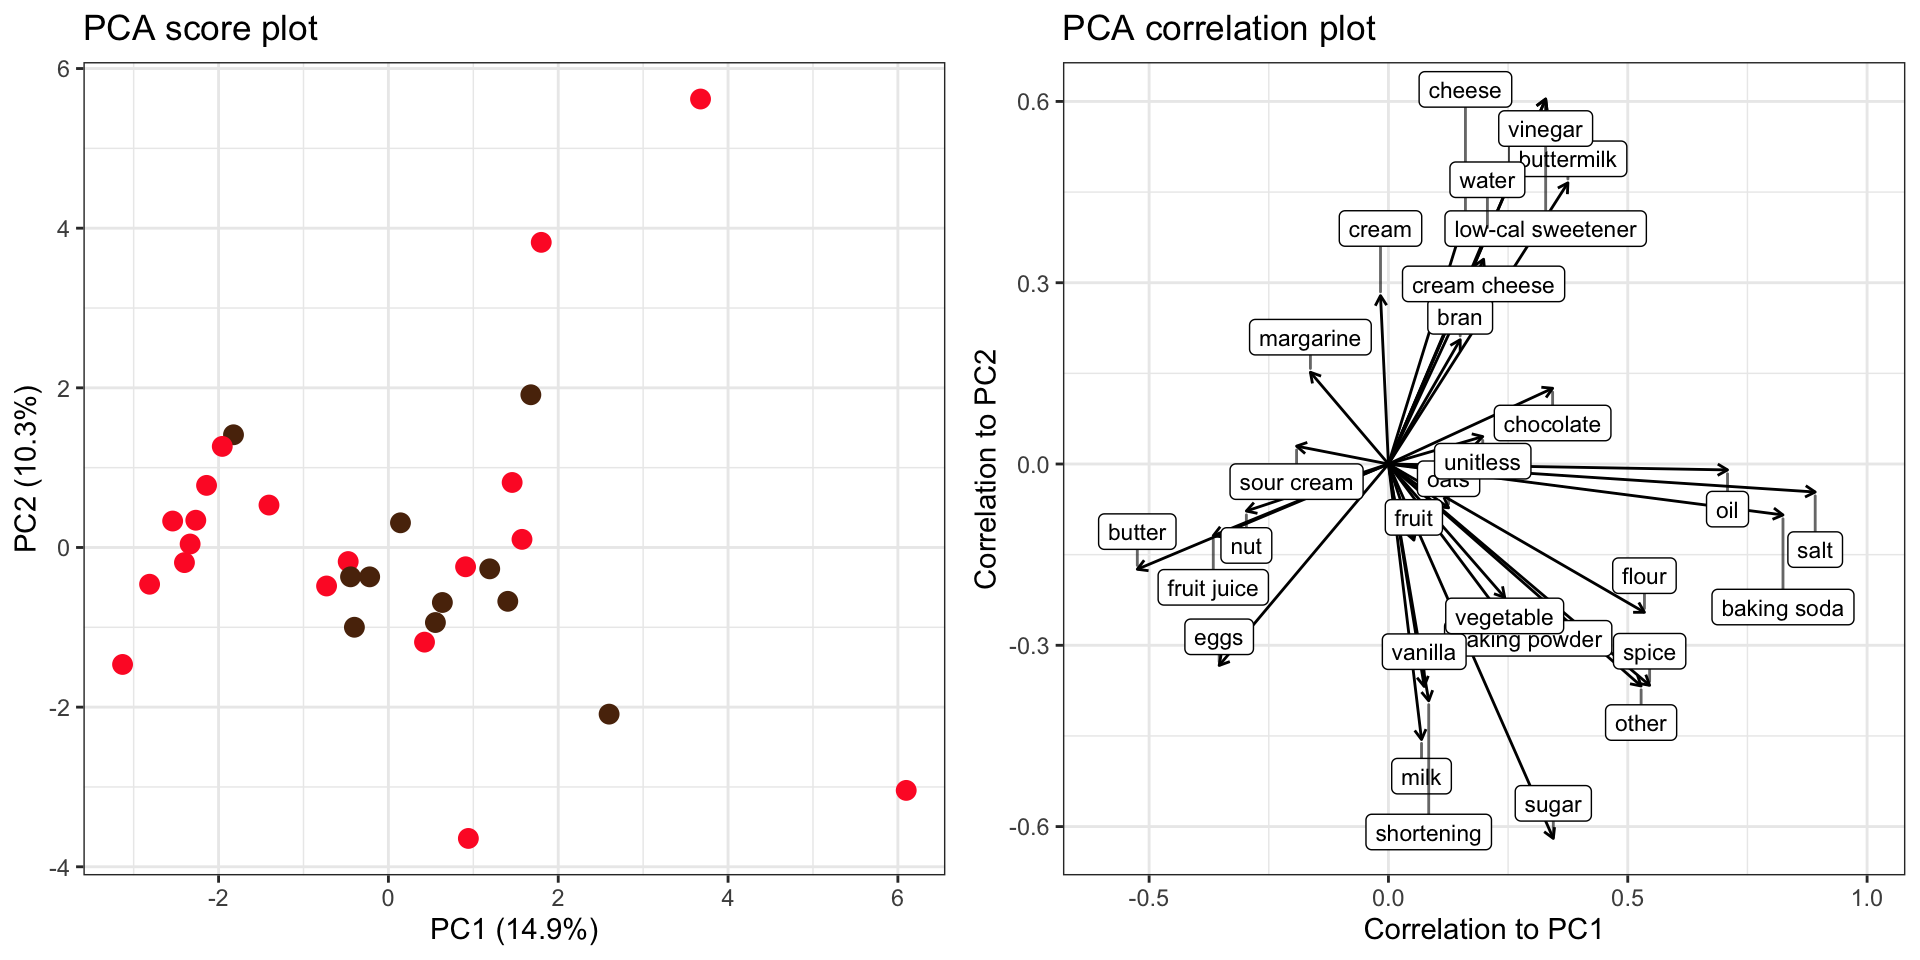
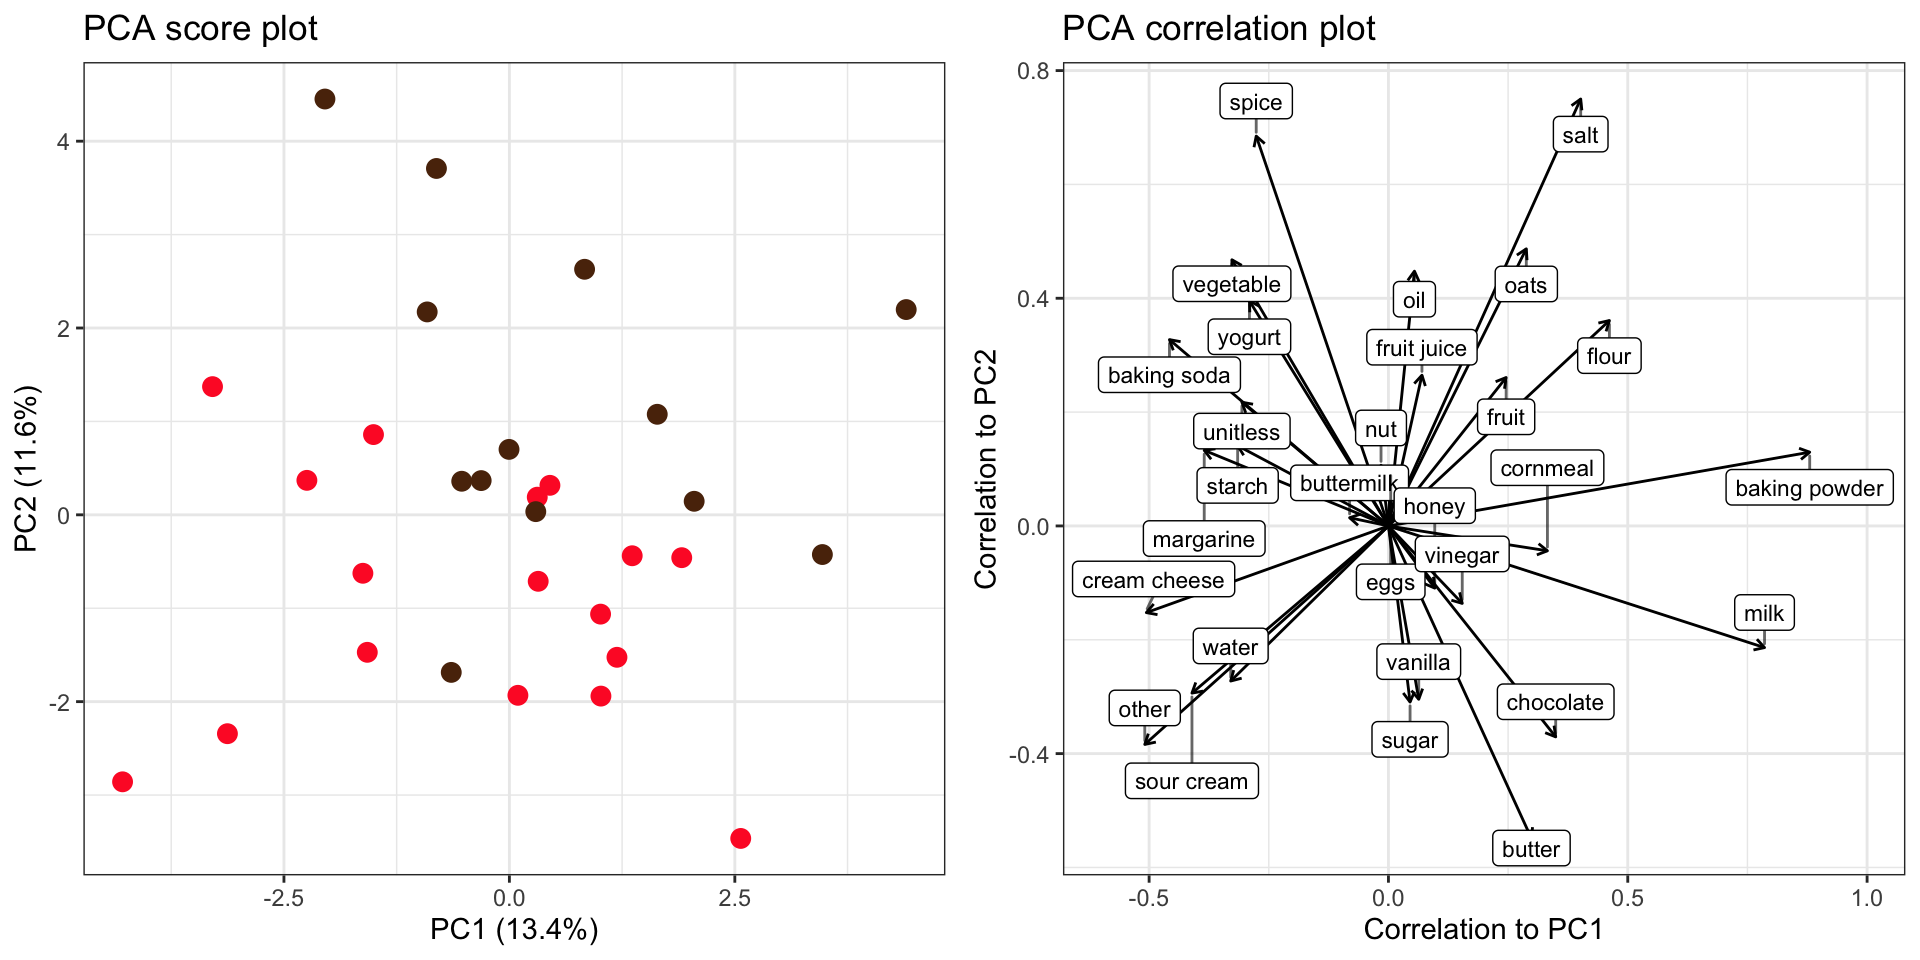
specified version for RNG

diff --git a/content/post/2019-03-21-cupcakes-vs-muffins-round-2.html b/content/post/2019-03-21-cupcakes-vs-muffins-round-2.html
@@ -65,18 +65,18 @@ nofrosting &lt;-
   mutate(type = fct_relabel(type, tools::toTitleCase))
 nofrosting</code></pre>
 <pre><code>## # A tibble: 30 x 42
-##    type  recipe_id agave `baking powder` `baking soda`  bran butter
-##    &lt;fct&gt; &lt;chr&gt;     &lt;dbl&gt;           &lt;dbl&gt;         &lt;dbl&gt; &lt;dbl&gt;  &lt;dbl&gt;
-##  1 Cupc… 25994         0        0             0            0 0.0417
-##  2 Muff… 214651        0        0.000868      0            0 0     
-##  3 Muff… 8458          0        0.00231       0            0 0.0104
-##  4 Cupc… 244984        0        0.000434      0.000217     0 0.0312
-##  5 Cupc… 8274          0        0             0            0 0.0667
-##  6 Cupc… 136471        0        0.00260       0.000868     0 0     
-##  7 Muff… 69664         0        0.00391       0            0 0.0312
-##  8 Cupc… 256113        0        0             0            0 0.0556
-##  9 Muff… 6714          0        0.00347       0.00174      0 0     
-## 10 Cupc… 76930         0        0             0            0 0.0156
+##    type  recipe_id agave `baking powder` `baking soda`  bran  butter
+##    &lt;fct&gt; &lt;chr&gt;     &lt;dbl&gt;           &lt;dbl&gt;         &lt;dbl&gt; &lt;dbl&gt;   &lt;dbl&gt;
+##  1 Cupc… 145206        0        0.00174       0.000868     0 0      
+##  2 Cupc… 240140        0        0.000868      0.000694     0 0.0167 
+##  3 Cupc… 161019        0        0.000868      0.00174      0 0      
+##  4 Muff… 16945         0        0             0            0 0.0741 
+##  5 Muff… 228562        0        0.00116       0.00231      0 0.00694
+##  6 Cupc… 215375        0        0.00130       0.000651     0 0      
+##  7 Cupc… 242474        0        0.00208       0            0 0      
+##  8 Cupc… 233538        0        0.00312       0.000521     0 0.05   
+##  9 Cupc… 155534        0        0.00231       0.000579     0 0      
+## 10 Muff… 6753          0        0.00694       0            0 0      
 ## # … with 20 more rows, and 35 more variables: buttermilk &lt;dbl&gt;,
 ## #   cheese &lt;dbl&gt;, chocolate &lt;dbl&gt;, cornmeal &lt;dbl&gt;, cream &lt;dbl&gt;, `cream
 ## #   cheese` &lt;dbl&gt;, eggs &lt;dbl&gt;, flour &lt;dbl&gt;, frosting &lt;dbl&gt;, fruit &lt;dbl&gt;,
@@ -99,11 +99,11 @@ nofrosting</code></pre>
        plotL = FALSE #suppresses default plot
     )</code></pre>
 <pre><code>## PCA
-## 30 samples x 30 variables
+## 30 samples x 29 variables
 ## standard scaling of predictors
-## 10 excluded variables (near zero variance)
+## 11 excluded variables (near zero variance)
 ##       R2X(cum) pre ort
-## Total    0.522   5   0</code></pre>
+## Total    0.513   5   0</code></pre>
 <p>A few ingredients get dropped because none of the recipes in my random sample of 30 have those ingredients. Notice that “type” is excluded in the PCA. PCA is totally agnostic to whether a recipe is for muffins or cupcakes.</p>
 <div class="figure"><span id="fig:unnamed-chunk-8"></span>
 <img src="/post/2019-03-21-cupcakes-vs-muffins-round-2_files/figure-html/unnamed-chunk-8-1.png" alt="PCA score and loading plot.  Muffins recipes (brown) separate only slightly from cupcake recipes (red) along PC2" width="960" />
@@ -128,11 +128,11 @@ Figure 4: PCA score and loading plot. Muffins recipes (brown) separate only slig
     orthoI = 1, #and one orthogonal axis
     permI = 200) #use 200 permutations to generate a p-value</code></pre>
 <pre><code>## OPLS-DA
-## 30 samples x 30 variables and 1 response
+## 30 samples x 29 variables and 1 response
 ## standard scaling of predictors and response(s)
-## 10 excluded variables (near zero variance)
+## 11 excluded variables (near zero variance)
 ##       R2X(cum) R2Y(cum) Q2(cum) RMSEE pre ort  pR2Y   pQ2
-## Total     0.21     0.81   0.336 0.222   1   1 0.005 0.015</code></pre>
+## Total    0.189    0.832    0.58 0.214   1   1 0.005 0.005</code></pre>
 <p>This output gives us some important properties of the model. <code>R2X(cum)</code> is the proportion of variation in the data explained by the predictive axes. <code>R2Y(cum)</code>, on the other hand, is the proportion of variation in <strong>baked good type</strong> explained by the model. PLS-DA only explains 9.44% of total variation, but explains <strong>83%</strong> of the difference between cupcakes and muffins! <code>Q2(cum)</code> is calculated through cross-validation and can be thought of as the predictive power of the model. <code>Q2(cum)</code> is always smaller than <code>R2Y(cum)</code>, but the larger it is, and the closer it is to <code>R2Y(cum)</code>, the better. A large <span class="math inline">\(Q^2\)</span> value indicates strong predictive power. <code>RMSEE</code> is the root mean squared error of estimation, a measure of error in the same units as the Y variable, which is not super useful in this case since our Y variable is categorical. <code>pre</code> and <code>ort</code> are just how many predictive and orthogonal components were used. Finally, the two p-values are generated through permutation—the data labels (muffin or cupcake) are shuffled randomly and the PLS-DA is re-fit. These p-values are the proportion of those 200 random datasets that generate <span class="math inline">\(R^2_Y\)</span> and <span class="math inline">\(Q^2\)</span> values as good or better than the real data.</p>
 <p>So, we can conclude that cupcakes <strong>are</strong> different than muffins (p &lt; 0.005)!</p>
 <p>Let’s see what ingredients contribute most to this difference.</p>
